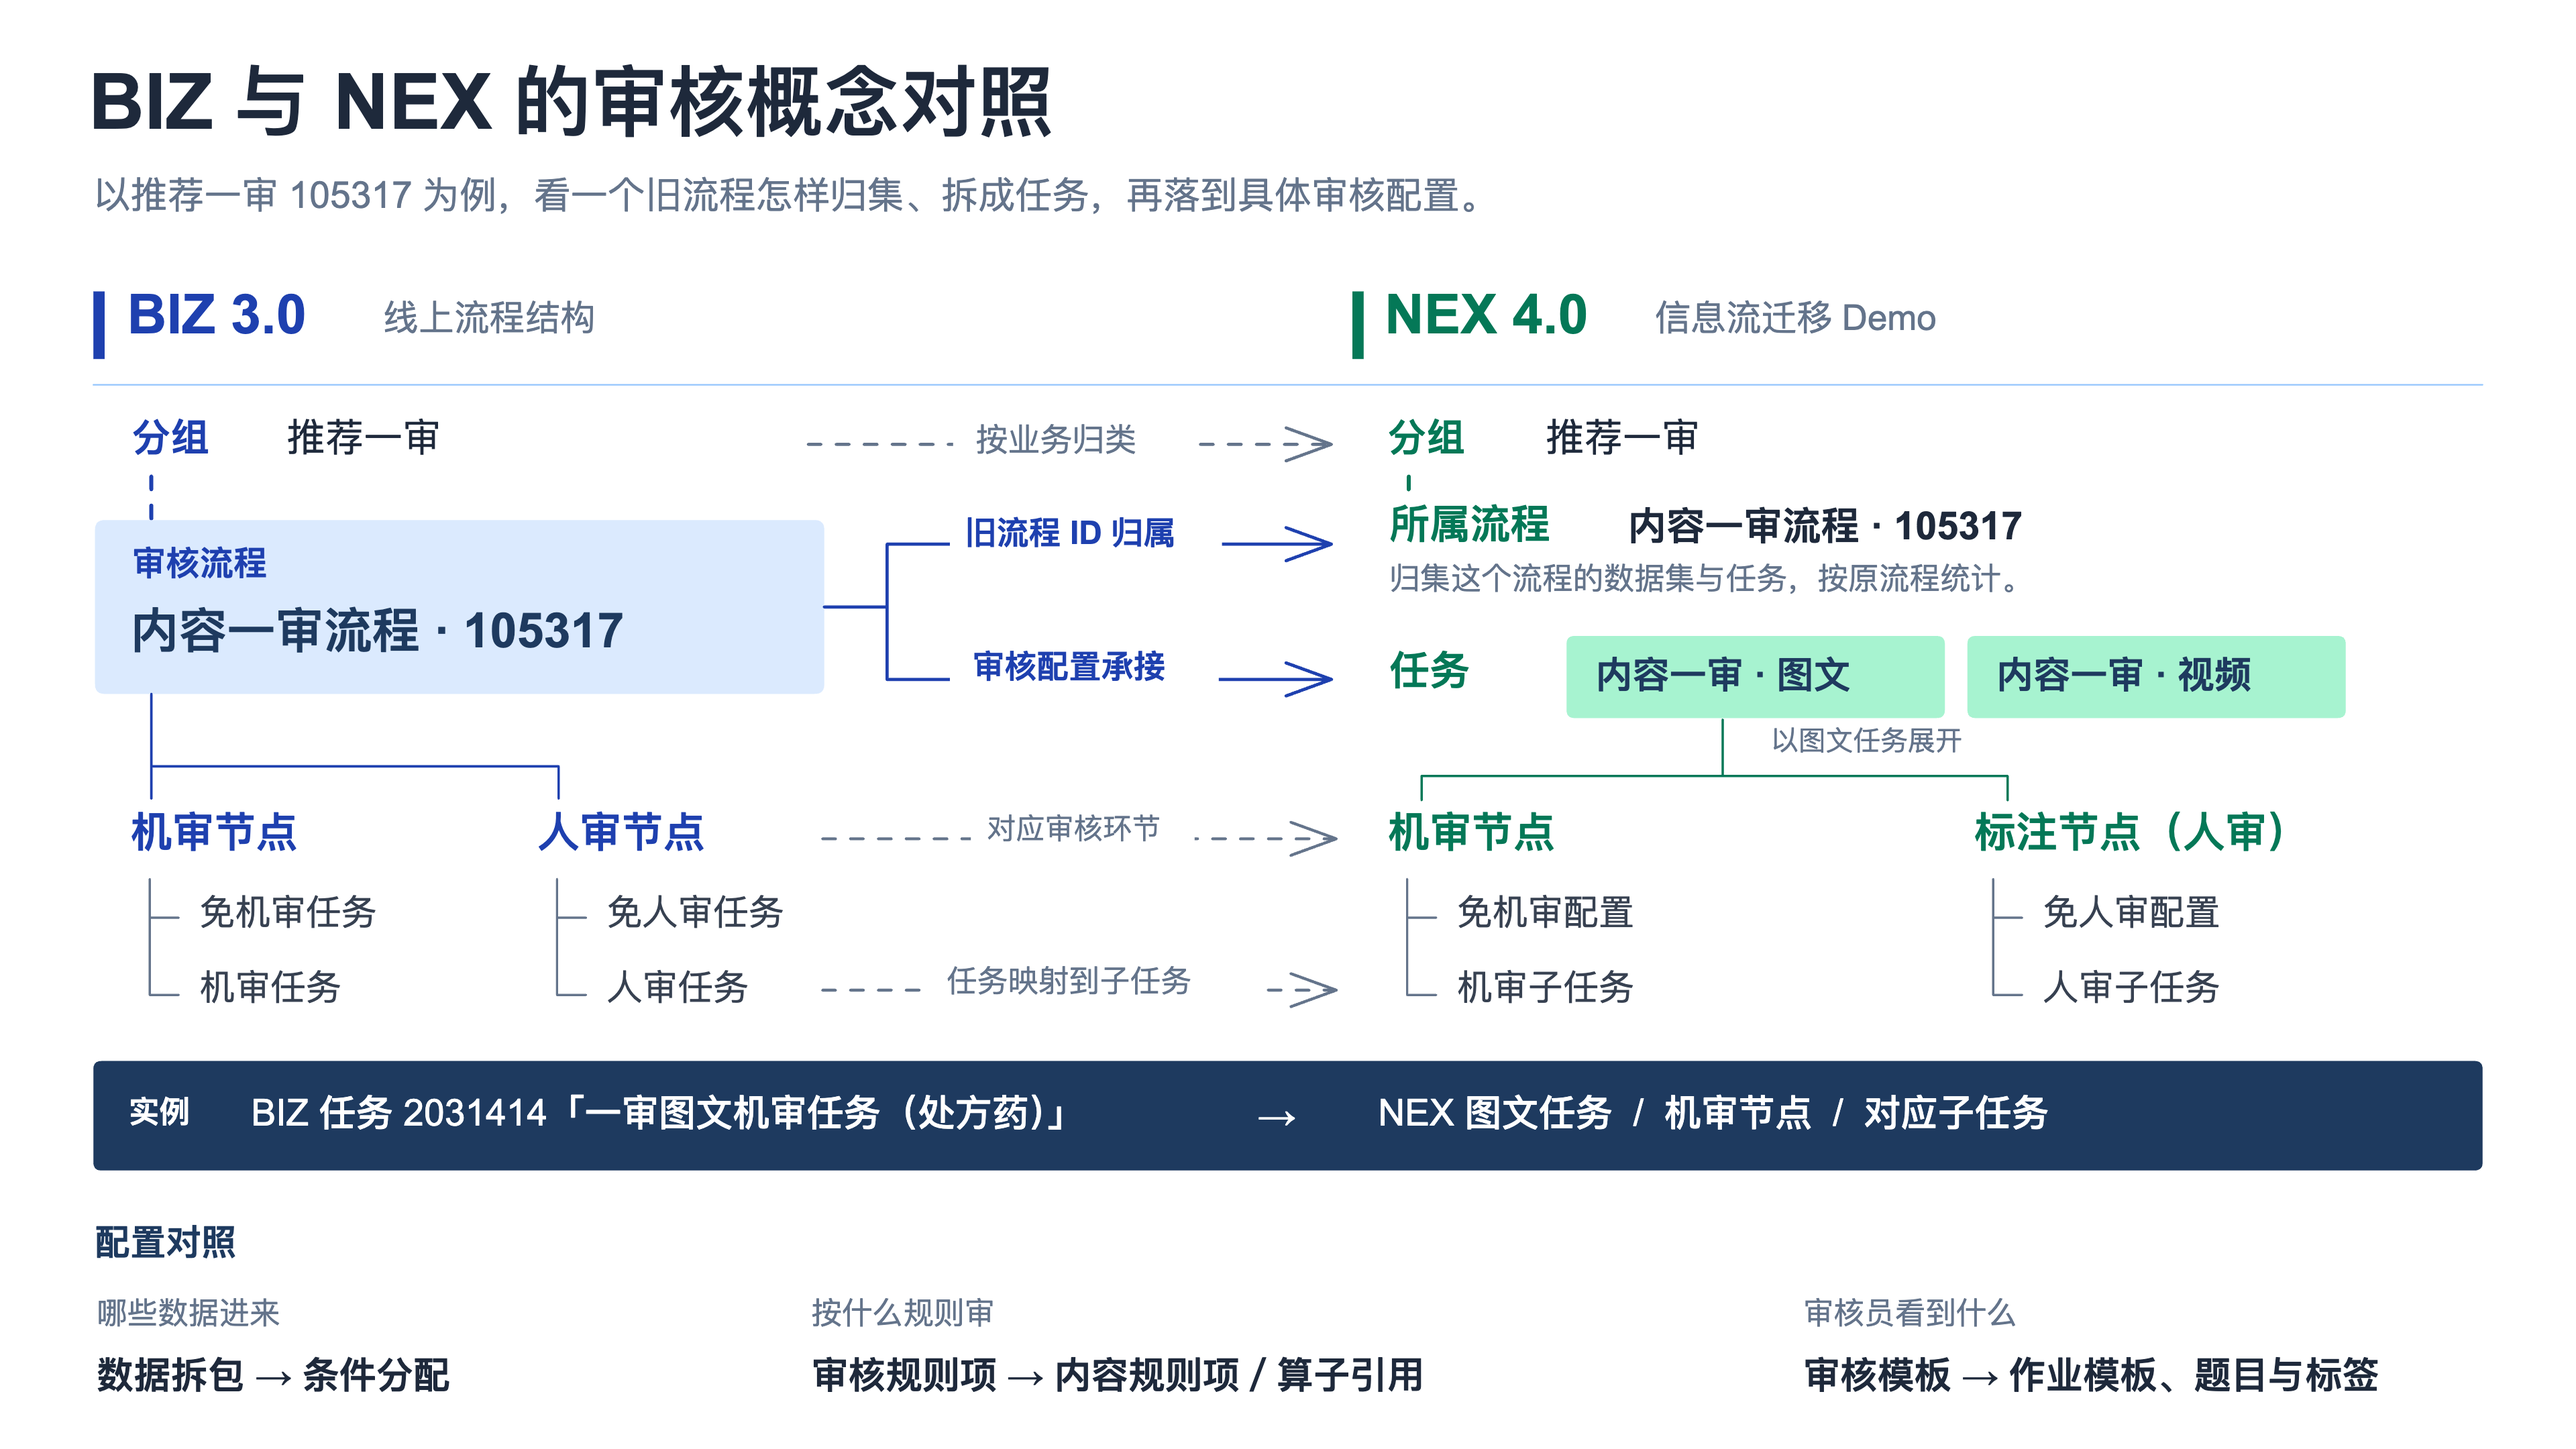
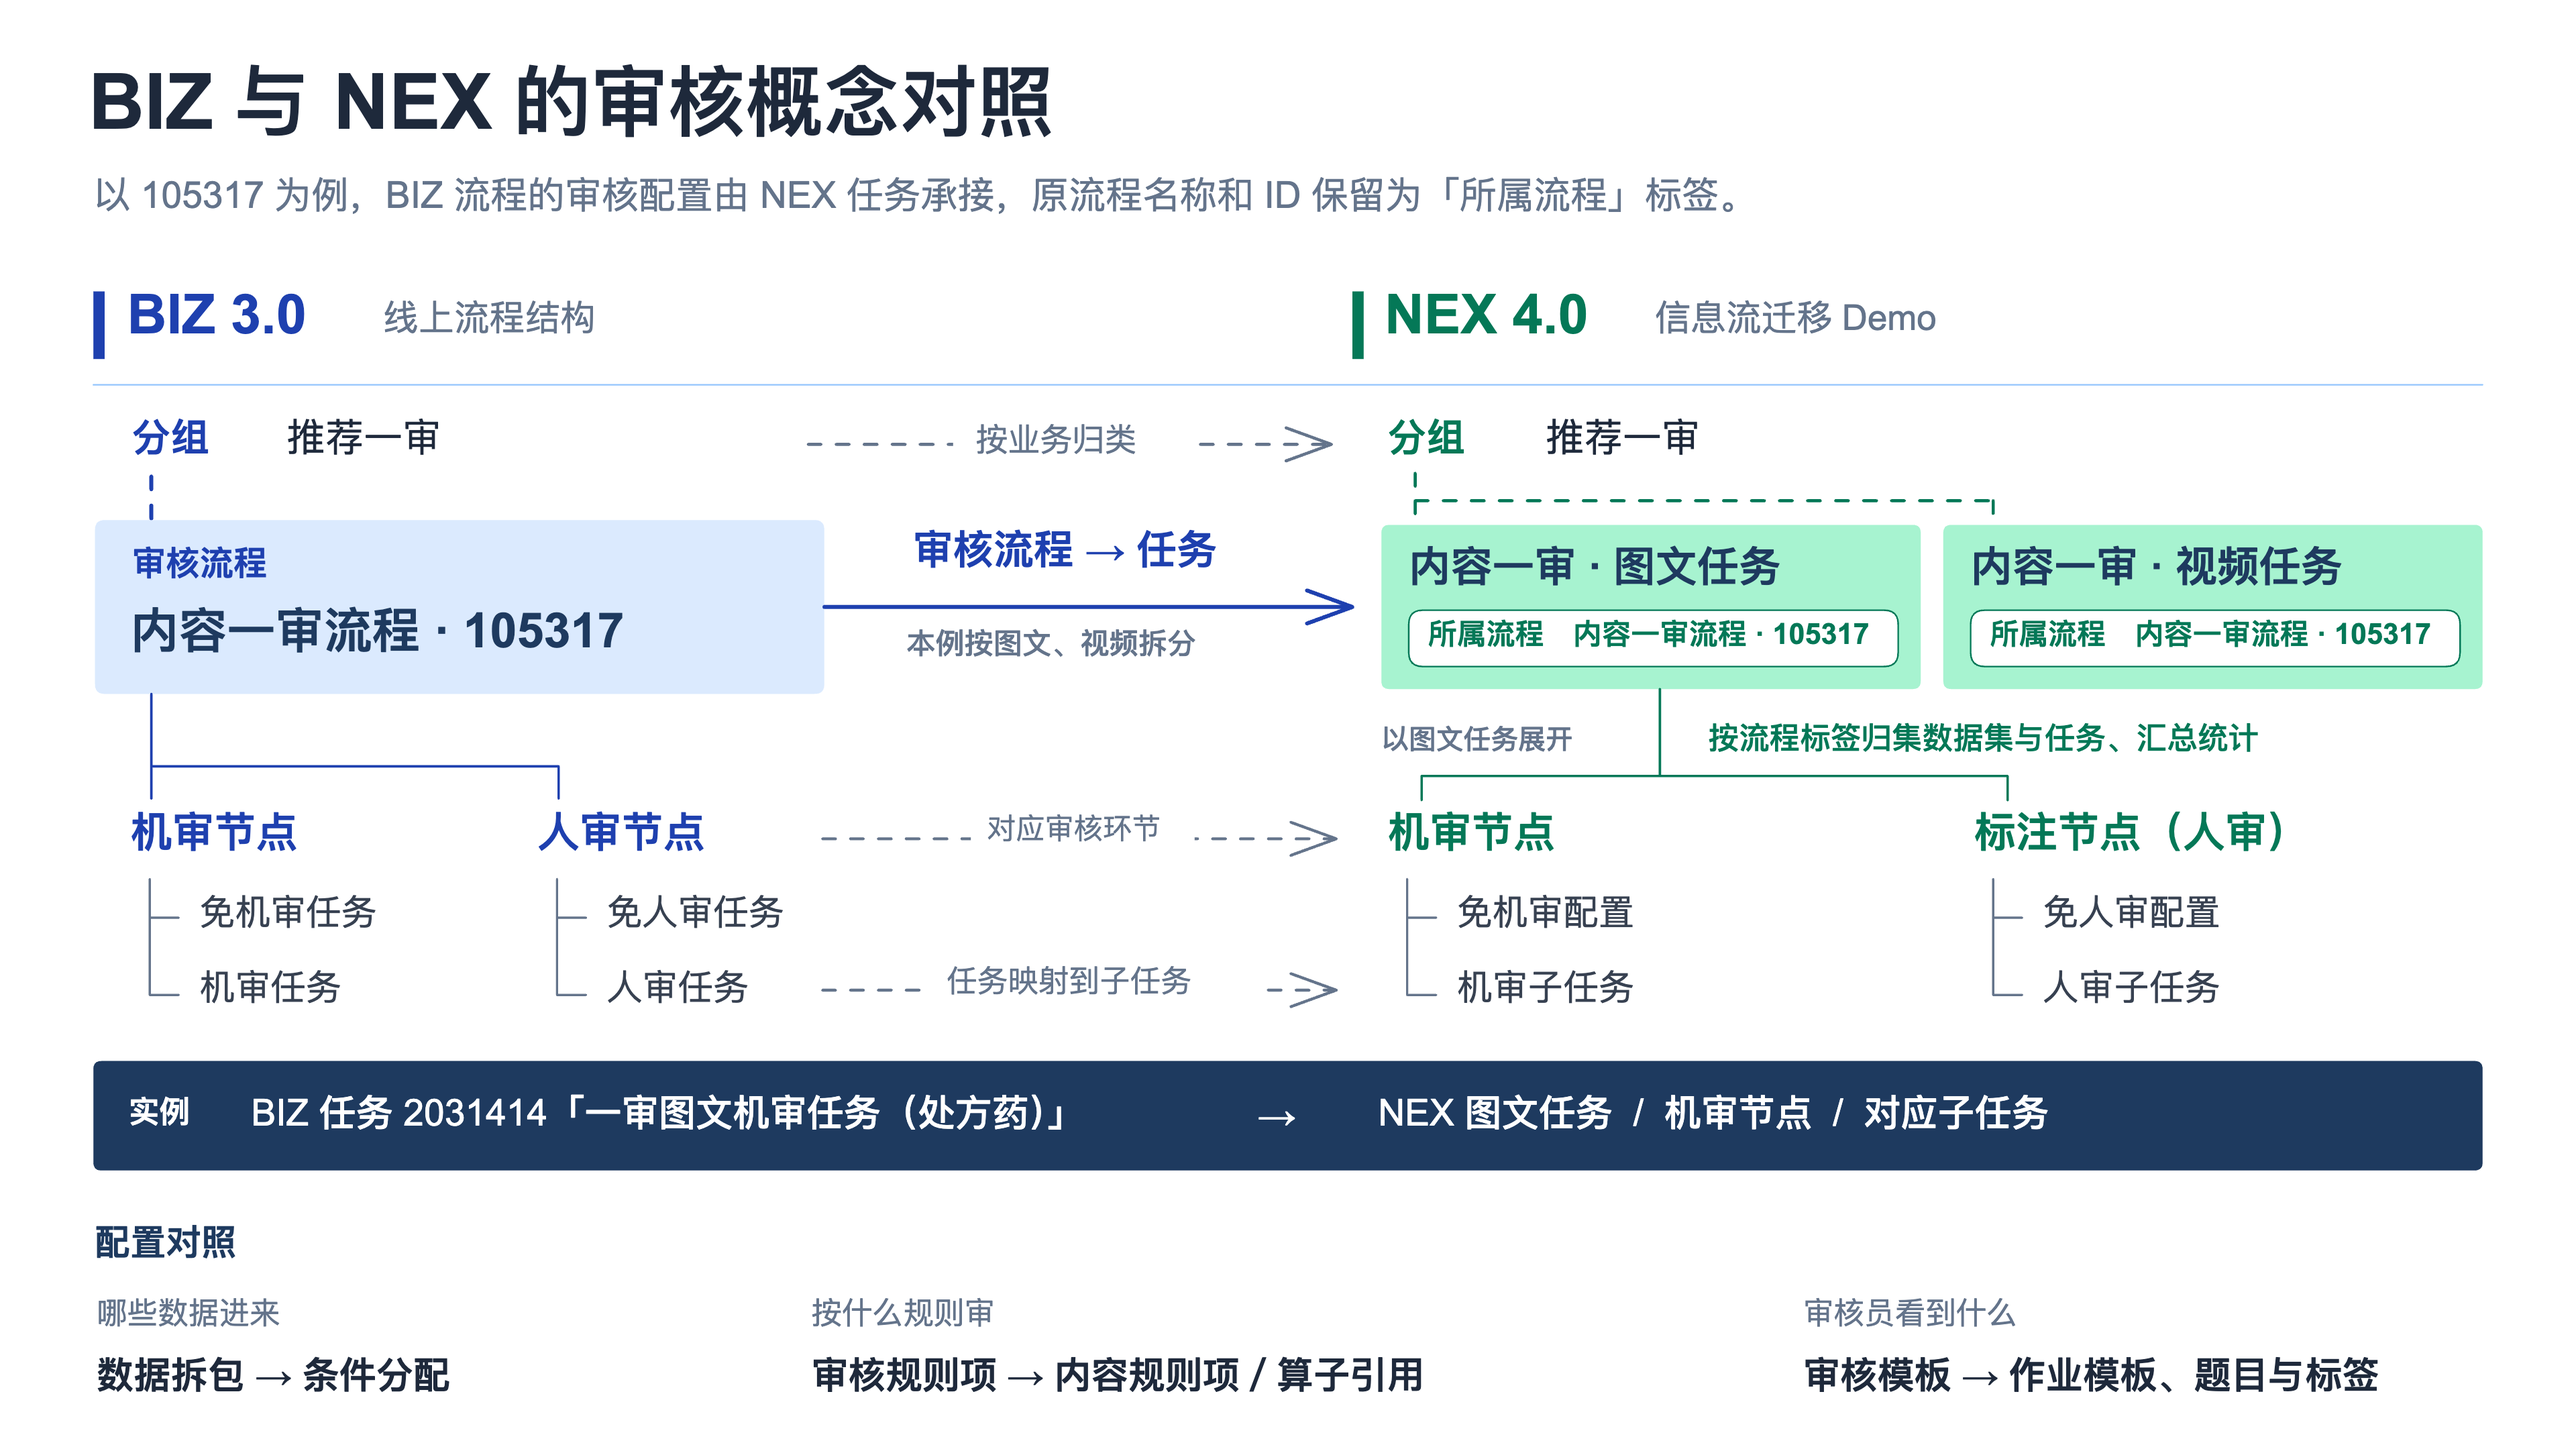
Show the BIZ flow as an ownership tag on NEX execution tasks

Changed region(s): [[0.3438, 0.3412, 0.9688, 0.5273], [0.0312, 0.1241, 0.6875, 0.1551]]

diff --git a/biz-nex-concepts.html b/biz-nex-concepts.html
@@ -397,6 +397,23 @@
       .branchrow strong {
         font-size: 14px;
       }
+      .mapped-task {
+        display: flex;
+        flex-wrap: wrap;
+        align-items: center;
+        gap: 4px 9px;
+        text-align: left;
+      }
+      .flow-tag {
+        display: inline-block;
+        white-space: nowrap;
+        border: 1px solid #b9ded3;
+        border-radius: 999px;
+        padding: 1px 8px;
+        color: #11674f;
+        background: #eff9f5;
+        font-size: 12px;
+      }
       .branchrow .sub {
         margin-left: auto;
       }
@@ -1194,16 +1211,16 @@
         const matchesAll = subset.length === inventory.length,
           heading = query && !matchesAll ? '匹配的子任务' : '任务与子任务';
         let kinds = Object.keys(kindNames).filter((k) => subset.some((row) => row[3] === k));
-        root.innerHTML = `<section class="panel panel-pad mapping"><div><div class="flow-label"><span class="source-mark">BIZ</span>审核流程</div><div class="flowbox"><span class="id mono">105317</span><strong>内容一审流程</strong><span class="dim">所属分组 · 推荐一审<br>两个 NEX 任务均归属此流程，可按旧 ID 核对与汇总</span></div></div><div class="hops">${ico('arrow')}</div><div><div class="flow-label"><span class="source-mark nex-mark">NEX</span>按素材类型拆为 2 个任务</div><div class="branch">${Object.keys(
+        root.innerHTML = `<section class="panel panel-pad mapping"><div><div class="flow-label"><span class="source-mark">BIZ</span>审核流程</div><div class="flowbox"><span class="id mono">105317</span><strong>内容一审流程</strong><span class="dim">所属分组 · 推荐一审</span></div></div><div class="hops">${ico('arrow')}</div><div><div class="flow-label"><span class="source-mark nex-mark">NEX</span>两个任务分别执行图文、视频审核</div><div class="branch">${Object.keys(
           kindNames,
         )
           .map(
             (k) =>
-              `<button class="branchrow" data-jump="${k}" title="展开${kindNames[k]}任务的子任务清单"><span class="kicon">${ico(k)}</span><strong>内容一审 · ${kindNames[k]}</strong><span class="sub">${inventory.filter((i) => i[3] === k).length} 个子任务 ›</span></button>`,
+              `<button class="branchrow" data-jump="${k}" title="展开${kindNames[k]}任务的子任务清单"><span class="kicon">${ico(k)}</span><span class="mapped-task"><strong>内容一审 · ${kindNames[k]}</strong><span class="flow-tag">所属流程 · 105317</span></span><span class="sub">${inventory.filter((i) => i[3] === k).length} 个子任务 ›</span></button>`,
           )
           .join(
             '',
-          )}</div></div></section><div class="list-head"><h2>${heading}</h2><span class="sub">${kinds.length} 个任务 · ${subset.length} 个子任务</span></div>${kinds
+          )}</div><div class="source-caption">「所属流程」是归属标签，用于归集数据集和任务，按原流程统计。</div></div></section><div class="list-head"><h2>${heading}</h2><span class="sub">${kinds.length} 个任务 · ${subset.length} 个子任务</span></div>${kinds
           .map(
             (k) =>
               `<details class="task-group" data-task-group="${k}" ${k === 'graphic' || !matchesAll ? 'open' : ''}><summary><span class="chev">${ico('down')}</span>${ico(k)}内容一审 · ${kindNames[k]}<span class="sub">${subset.filter((i) => i[3] === k).length} 项</span></summary><div class="stage-wrap">${stages
